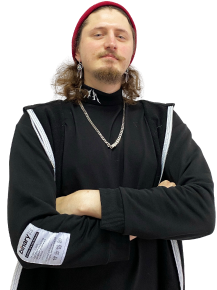
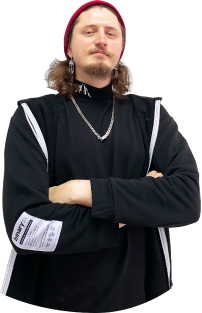
production: * image bg

diff --git a/source/index.html b/source/index.html
@@ -22,7 +22,7 @@
     <h1 class="visually-hidden">Vladyslav Zubko - interface developer</h1>
     <header class="header">
       <span class="header__logo">
-        <svg width="65" height="45" viewBox="0 0 242 167">
+        <svg width="65" height="45" viewBox="0 0 242 167" aria-hidden="true">
           <path class="header__logo-icon header__logo-icon--letter" d="M80.7999 166.2C80.6999 166.2 80.6 166.2 80.5 166.2C78.1 166.1 76 164.7 75 162.6L0.699952 9.70002C-0.900048 6.50002 0.499967 2.6 3.69997 1C6.89997 -0.599997 10.7999 0.800003 12.3999 4L81.6 146.3L101.2 115C103.1 112 107.1 111 110.2 112.9C113.2 114.8 114.2 118.8 112.3 121.9L86.5 163.1C85.2 165.1 83.0999 166.2 80.7999 166.2Z" />
           <path class="header__logo-icon header__logo-icon--letter" d="M155.2 166.2C155.1 166.2 155 166.2 154.9 166.2C152.5 166.1 150.4 164.7 149.4 162.6L74.9998 9.70007C73.3998 6.50007 74.7998 2.60006 77.9998 1.00006C81.1998 -0.599939 85.0998 0.800061 86.6998 4.00006L155.9 146.3L186.5 97.4001C195.9 79.7001 193.1 75.5 187.6 67.3C184.5 62.6 174.3 46.7001 173.1 44.9001C169.4 39.7001 159.9 26.1001 166 12.2001C168.5 6.40007 175.9 0.300049 183.7 0.300049C192.5 0.300049 198.7 3.70007 202.7 8.10007C207.1 3.00007 213.5 0.300049 221.2 0.300049C230.6 0.300049 237.3 6.60006 239.5 12.5001C243.3 22.3001 241.5 34.1001 234.6 44.9001L197.6 103.9C197.6 103.9 197.6 103.9 197.6 104C197.4 104.3 197.3 104.5 197.1 104.8L160.5 163.1C159.5 165.1 157.4 166.2 155.2 166.2ZM183.8 13.4001C181.8 13.4001 178.7 15.7001 178 17.5001C175.8 22.6001 177.5 28.6001 183.9 37.6001C184 37.7001 184 37.8001 184.1 37.9001C184.2 38.1001 195.3 55.5001 198.4 60.1001C200.6 63.4001 202.6 66.5001 203.9 69.9001L223.8 38.1001C228.4 30.9001 229.8 23.1 227.6 17.3C227.3 16.5 225.3 13.5001 221.4 13.5001C211.3 13.5001 210 21.7001 209.9 24.2001C209.8 27.6001 207.1 30.3001 203.7 30.4001C200.3 30.6001 197.4 28.0001 197 24.7001C196.6 22.7001 194.7 13.4001 183.8 13.4001Z" />
           <path class="header__logo-icon header__logo-icon--heart" fill="red" d="M196.9 70.1001C199.7 75.7001 207.6 76.2 210.9 70.8L229.3 41.4001C234.3 33.5001 237 23.5 233.6 14.8C232.4 11.8 228.2 6.80005 221.3 6.80005C210.9 6.80005 206.5 12.9001 204.6 17.7001C204.1 19.1001 202.1 19.2 201.5 17.8C199.3 12.9 194.3 6.80005 183.8 6.80005C178.9 6.80005 173.7 10.9 172 14.8C167.9 24.3 173.2 33.8001 178.5 41.2001C178.5 41.2001 189.7 58.8001 192.9 63.6001C194.5 65.9001 195.8 68.0001 196.9 70.1001Z" />
@@ -95,9 +95,14 @@
           </header>
           <div class="intro__content">
             <figure class="intro__image-wrapper">
+              <svg class="intro__svg visually-hidden" aria-hidden="true">
+                <clipPath id="intro-bg" clipPathUnits="objectBoundingBox">
+                  <path d="M1,0.471 C1,0.738,0.772,1,0.525,1 C0.278,1,0.014,0.876,0.002,0.639 C0.002,0.372,0.278,0.001,0.525,0.001 C0.772,0.001,1,0.204,1,0.471"></path>
+                </clipPath>
+              </svg>
               <picture>
                 <source srcset="/img/whatislove-zubko.photo.webp 1x, /img/whatislove-zubko@2x.photo.webp 2x" type="image/webp" />
-                <img src="/img/whatislove-zubko.photo.jpg" srcset="/img/whatislove-zubko@2x.photo.jpg 2x" loading="lazy" width="217" height="290" alt="Vladyslav Zubko" />
+                <img src="/img/whatislove-zubko.photo.png" srcset="/img/whatislove-zubko@2x.photo.png 2x" loading="lazy" width="201" height="313" alt="Vladyslav Zubko" />
               </picture>
             </figure>
             <div class="intro__personal-wrapper">

diff --git a/source/css/blocks/intro.css b/source/css/blocks/intro.css
@@ -16,19 +16,28 @@
 }
 
 .intro__image-wrapper {
-  width: 290px;
-  height: 290px;
+  position: relative;
+  width: 305px;
   margin: 0 auto;
-  padding: 10px 15px 0;
+  padding: 0 0 0 25px;
+}
+
+.intro__image-wrapper::before {
+  content: "";
+  position: absolute;
+  bottom: 0;
+  left: 0;
+  width: 100%;
+  height: 275px;
   background-color: var(--color--primary);
-  border-radius: 50%;
+  clip-path: url("#intro-bg");
 }
 
 .intro__image-wrapper img {
   display: block;
   max-width: 100%;
   margin: 0 auto;
-  filter: drop-shadow(15px 4px 0 var(--color--secondary));
+  filter: drop-shadow(-8px 7px 0.3px var(--color--secondary));
 }
 
 .intro__personal-wrapper {
@@ -45,6 +54,7 @@
   display: grid;
   gap: 15px 0;
   margin: 0 0 25px;
+  padding: 0;
 }
 
 .intro__item {
@@ -88,6 +98,7 @@
 
   .intro__image-wrapper {
     margin: 0 auto;
+    padding: 0;
   }
 
   .intro__header {
@@ -136,17 +147,12 @@
     text-align: left;
   }
 
-  .intro__list {
-    padding: 0 0 0 15px;
-  }
-
   .intro__myself-title {
     margin: 0 0 15px;
     text-align: left;
   }
 
   .intro__myself-desk {
-    padding: 0 0 0 15px;
     text-align: left;
   }
 }
